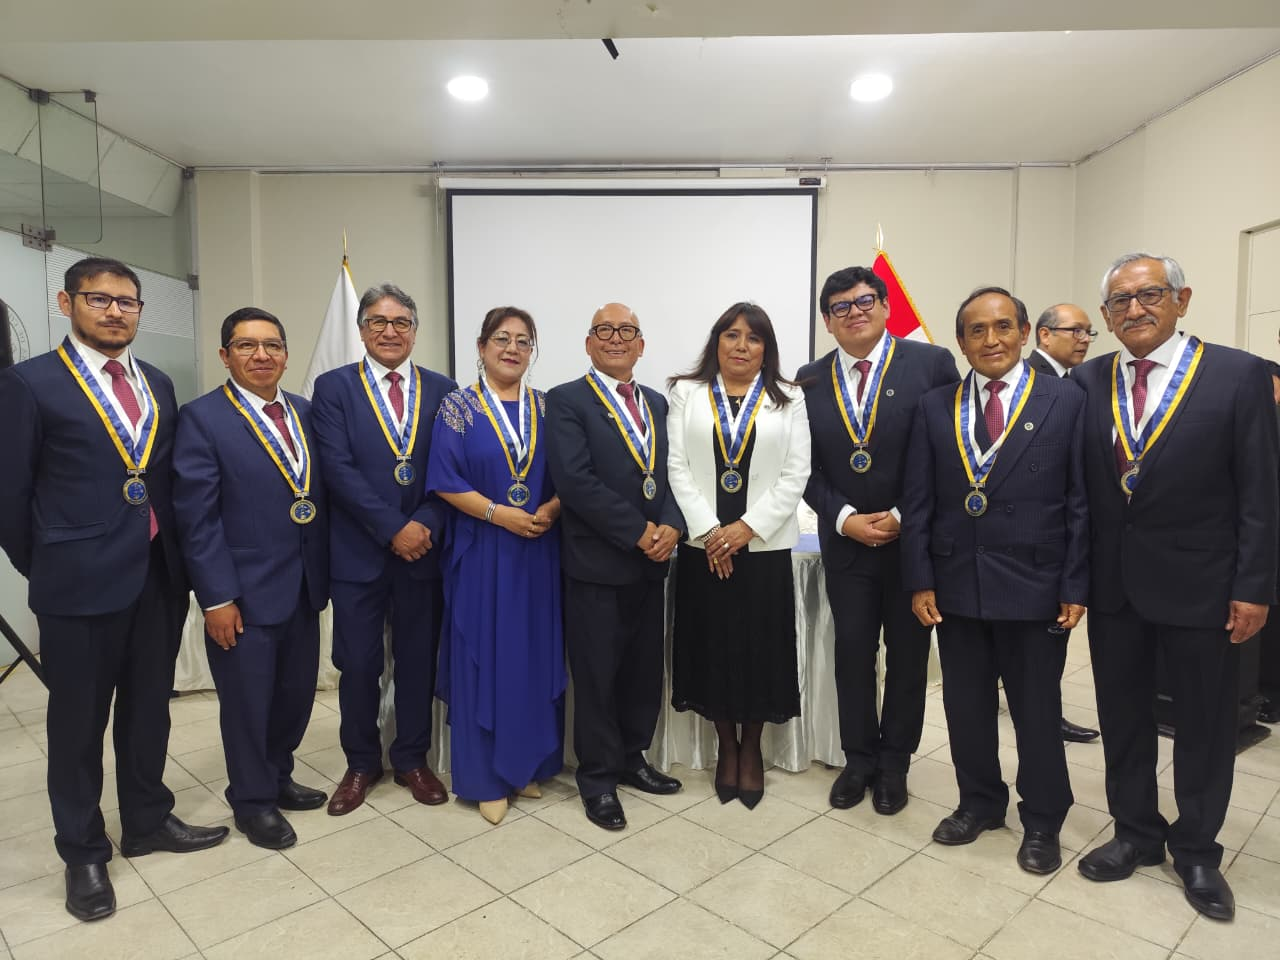
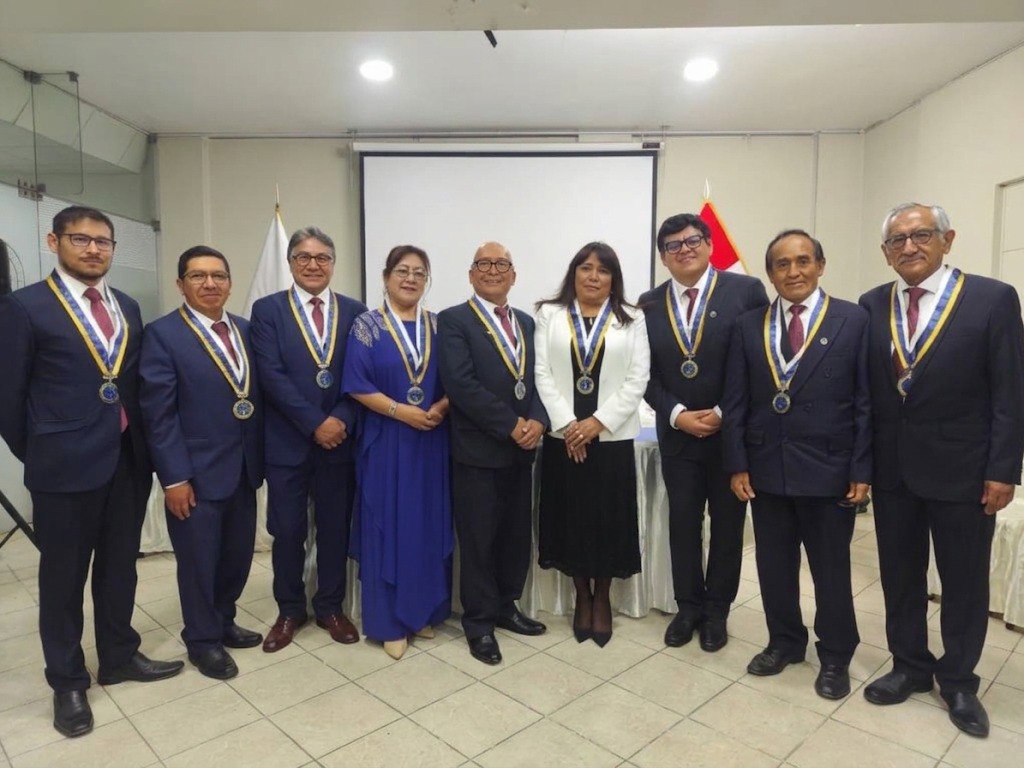
se mejora el formato de texto de las secciones principales y cambio de imagen de directivos

diff --git a/src/components/layout/Header.tsx b/src/components/layout/Header.tsx
@@ -21,6 +21,7 @@ import PhoneIphoneOutlinedIcon from "@mui/icons-material/PhoneIphoneOutlined";
 import PhoneOutlinedIcon from "@mui/icons-material/PhoneOutlined";
 import MailOutlinedIcon from "@mui/icons-material/MailOutlined";
 import PlaceOutlinedIcon from "@mui/icons-material/PlaceOutlined";
+import MenuBookOutlinedIcon from "@mui/icons-material/MenuBookOutlined";
 import { brand, fonts } from "../../theme/brand";
 import { SITE } from "../../data/site";
 import {
@@ -39,7 +40,9 @@ type ContactItem = {
   icon: ReactNode;
   label: string;
   href?: string;
+  to?: string;
   hideOnMobile?: boolean;
+  onlyWide?: boolean;
 };
 
 const CONTACT_ITEMS: ContactItem[] = [
@@ -66,6 +69,13 @@ const CONTACT_ITEMS: ContactItem[] = [
     icon: <PlaceOutlinedIcon />,
     label: SITE.contact.address,
     hideOnMobile: true,
+  },
+  {
+    icon: <MenuBookOutlinedIcon />,
+    label: "Libro de reclamaciones",
+    to: "/libro-de-reclamaciones",
+    hideOnMobile: true,
+    onlyWide: true,
   },
 ];
 
@@ -252,12 +262,22 @@ export default function Header() {
                 ...contactItemSx,
                 fontSize: { xs: "0.72rem", sm: "0.78rem", md: "0.84rem" },
                 display: {
-                  xs: item.hideOnMobile ? "none" : "inline-flex",
-                  sm: "inline-flex",
+                  xs: item.hideOnMobile || item.onlyWide ? "none" : "inline-flex",
+                  sm: item.onlyWide ? "none" : "inline-flex",
+                  lg: "inline-flex",
                 },
               } as const;
 
-              return item.href ? (
+              return item.to ? (
+                <Box
+                  key={item.label}
+                  component={RouterLink}
+                  to={item.to}
+                  sx={itemSx}
+                >
+                  {content}
+                </Box>
+              ) : item.href ? (
                 <Box
                   key={item.label}
                   component="a"

diff --git a/src/features/arbitraje/CostosPage.tsx b/src/features/arbitraje/CostosPage.tsx
@@ -107,7 +107,7 @@ export default function CostosPage() {
 
       <SectionSubnav items={ARBITRAJE_SUBNAV} ariaLabel="Secciones de arbitraje" />
 
-      <Box component="section" sx={{ py: { xs: 7, md: 9 }, backgroundColor: brand.whiteSoft }}>
+      <Box component="section" sx={{ py: { xs: 5, md: 7 }, backgroundColor: brand.whiteSoft }}>
         <Container>
           <SectionHeading
             kicker="Qué incluye"
@@ -132,7 +132,7 @@ export default function CostosPage() {
         </Container>
       </Box>
 
-      <Box component="section" sx={{ py: { xs: 7, md: 9 }, backgroundColor: brand.paper }}>
+      <Box component="section" sx={{ py: { xs: 5, md: 7 }, backgroundColor: brand.paper }}>
         <Container>
           <SectionHeading
             kicker="Anexo 1"
@@ -195,7 +195,7 @@ export default function CostosPage() {
         </Container>
       </Box>
 
-      <Box component="section" sx={{ py: { xs: 7, md: 9 }, backgroundColor: brand.whiteSoft }}>
+      <Box component="section" sx={{ py: { xs: 5, md: 7 }, backgroundColor: brand.whiteSoft }}>
         <Container>
           <SectionHeading kicker="Cómo se calcula" title="Tres datos para estimar tu costo" />
 
@@ -276,7 +276,7 @@ export default function CostosPage() {
         </Container>
       </Box>
 
-      <Box component="section" sx={{ py: { xs: 7, md: 9 }, backgroundColor: brand.paper }}>
+      <Box component="section" sx={{ py: { xs: 5, md: 7 }, backgroundColor: brand.paper }}>
         <Container>
           <SectionHeading
             kicker="Tasas y trámites"
@@ -347,7 +347,7 @@ export default function CostosPage() {
         </Container>
       </Box>
 
-      <Box component="section" sx={{ py: { xs: 7, md: 9 }, backgroundColor: brand.whiteSoft }}>
+      <Box component="section" sx={{ py: { xs: 5, md: 7 }, backgroundColor: brand.whiteSoft }}>
         <Container>
           <SectionHeading
             kicker="Ejemplos"

diff --git a/src/features/arbitraje/InicioArbitrajePage.tsx b/src/features/arbitraje/InicioArbitrajePage.tsx
@@ -143,7 +143,7 @@ export default function InicioArbitrajePage() {
 
       <SectionSubnav items={ARBITRAJE_SUBNAV} ariaLabel="Secciones de arbitraje" />
 
-      <Box component="section" sx={{ py: { xs: 7, md: 10 }, backgroundColor: brand.whiteSoft }}>
+      <Box component="section" sx={{ py: { xs: 5, md: 7 }, backgroundColor: brand.whiteSoft }}>
         <Container>
           <Grid container spacing={{ xs: 4, md: 7 }}>
             <Grid size={{ xs: 12, md: 7 }}>
@@ -260,7 +260,7 @@ export default function InicioArbitrajePage() {
         </Container>
       </Box>
 
-      <Box component="section" sx={{ py: { xs: 7, md: 9 }, backgroundColor: brand.paper }}>
+      <Box component="section" sx={{ py: { xs: 5, md: 7 }, backgroundColor: brand.paper }}>
         <Container>
           <SectionHeading
             kicker="El recorrido"
@@ -308,7 +308,7 @@ export default function InicioArbitrajePage() {
       <Box
         component="section"
         sx={{
-          py: { xs: 7, md: 9 },
+          py: { xs: 5, md: 7 },
           backgroundColor: brand.whiteSoft,
           borderTop: `1px solid ${brand.line}`,
         }}
@@ -388,7 +388,7 @@ export default function InicioArbitrajePage() {
         id="guia-requisitos"
         sx={{
           scrollMarginTop: "calc(var(--header-h) + var(--subnav-h))",
-          py: { xs: 7, md: 10 },
+          py: { xs: 5, md: 7 },
           backgroundColor: brand.whiteSoft,
           borderTop: `1px solid ${brand.line}`,
         }}
@@ -522,7 +522,7 @@ export default function InicioArbitrajePage() {
         </Container>
       </Box>
 
-      <Box component="section" sx={{ py: { xs: 7, md: 9 }, backgroundColor: brand.paper }}>
+      <Box component="section" sx={{ py: { xs: 5, md: 7 }, backgroundColor: brand.paper }}>
         <Container>
           <SectionHeading
             kicker="Canales de atención"

diff --git a/src/features/arbitraje/ClausulaPage.tsx b/src/features/arbitraje/ClausulaPage.tsx
@@ -107,7 +107,7 @@ export default function ClausulaPage() {
 
       <SectionSubnav items={ARBITRAJE_SUBNAV} ariaLabel="Secciones de arbitraje" />
 
-      <Box component="section" sx={{ py: { xs: 7, md: 10 }, backgroundColor: brand.whiteSoft }}>
+      <Box component="section" sx={{ py: { xs: 5, md: 7 }, backgroundColor: brand.whiteSoft }}>
         <Container>
           <Grid container spacing={{ xs: 4, md: 7 }}>
             <Grid size={{ xs: 12, md: 7 }}>
@@ -165,7 +165,7 @@ export default function ClausulaPage() {
         </Container>
       </Box>
 
-      <Box component="section" sx={{ py: { xs: 7, md: 10 }, backgroundColor: brand.paper }}>
+      <Box component="section" sx={{ py: { xs: 5, md: 7 }, backgroundColor: brand.paper }}>
         <Container>
           <SectionHeading
             kicker="Cómo adaptarla"
@@ -254,7 +254,7 @@ export default function ClausulaPage() {
         </Container>
       </Box>
 
-      <Box component="section" sx={{ py: { xs: 7, md: 10 }, backgroundColor: brand.whiteSoft }}>
+      <Box component="section" sx={{ py: { xs: 5, md: 7 }, backgroundColor: brand.whiteSoft }}>
         <Container>
           <SectionHeading
             kicker="Errores frecuentes"
@@ -331,7 +331,7 @@ export default function ClausulaPage() {
         </Container>
       </Box>
 
-      <Box component="section" sx={{ py: { xs: 7, md: 9 }, backgroundColor: brand.paper }}>
+      <Box component="section" sx={{ py: { xs: 5, md: 7 }, backgroundColor: brand.paper }}>
         <Container>
           <Grid container spacing={{ xs: 4, md: 6 }}>
             <Grid size={{ xs: 12, md: 5 }}>

diff --git a/src/features/arbitraje/ArbitrajePage.tsx b/src/features/arbitraje/ArbitrajePage.tsx
@@ -77,7 +77,7 @@ export default function ArbitrajePage() {
 
       <SectionSubnav items={ARBITRAJE_SUBNAV} ariaLabel="Secciones de arbitraje" />
 
-      <Box component="section" sx={{ py: { xs: 7, md: 10 }, backgroundColor: brand.whiteSoft }}>
+      <Box component="section" sx={{ py: { xs: 5, md: 7 }, backgroundColor: brand.whiteSoft }}>
         <Container>
           <Grid container spacing={{ xs: 4, md: 7 }} sx={{ alignItems: "center" }}>
             <Grid size={{ xs: 12, md: 5 }}>
@@ -192,7 +192,7 @@ export default function ArbitrajePage() {
         </Container>
       </Box>
 
-      <Box component="section" sx={{ py: { xs: 7, md: 10 }, backgroundColor: brand.paper }}>
+      <Box component="section" sx={{ py: { xs: 5, md: 7 }, backgroundColor: brand.paper }}>
         <Container>
           <Box
             sx={{
@@ -453,7 +453,7 @@ export default function ArbitrajePage() {
       <Box
         component="section"
         sx={{
-          py: { xs: 7, md: 10 },
+          py: { xs: 5, md: 7 },
           backgroundColor: brand.whiteSoft,
           borderTop: `1px solid ${brand.line}`,
         }}
@@ -592,7 +592,7 @@ export default function ArbitrajePage() {
         </Container>
       </Box>
 
-      <Box component="section" sx={{ py: { xs: 5, md: 6 }, backgroundColor: brand.paper }}>
+      <Box component="section" sx={{ py: { xs: 4, md: 5 }, backgroundColor: brand.paper }}>
         <Container>
           <Stack
             direction={{ xs: "column", md: "row" }}

diff --git a/src/features/arbitraje/LaudosPage.tsx b/src/features/arbitraje/LaudosPage.tsx
@@ -75,7 +75,7 @@ export default function LaudosPage() {
 
       <SectionSubnav items={ARBITRAJE_SUBNAV} ariaLabel="Secciones de arbitraje" />
 
-      <Box component="section" sx={{ py: { xs: 7, md: 10 }, backgroundColor: brand.whiteSoft }}>
+      <Box component="section" sx={{ py: { xs: 5, md: 7 }, backgroundColor: brand.whiteSoft }}>
         <Container>
           <SectionHeading
             kicker="Cómo se emite"
@@ -139,7 +139,7 @@ export default function LaudosPage() {
         </Container>
       </Box>
 
-      <Box component="section" sx={{ py: { xs: 7, md: 9 }, backgroundColor: brand.paper }}>
+      <Box component="section" sx={{ py: { xs: 5, md: 7 }, backgroundColor: brand.paper }}>
         <Container>
           <SectionHeading
             kicker="Después del laudo"
@@ -181,7 +181,7 @@ export default function LaudosPage() {
         </Container>
       </Box>
 
-      <Box component="section" sx={{ py: { xs: 7, md: 9 }, backgroundColor: brand.whiteSoft }}>
+      <Box component="section" sx={{ py: { xs: 5, md: 7 }, backgroundColor: brand.whiteSoft }}>
         <Container>
           <Grid container spacing={{ xs: 4, md: 6 }}>
             <Grid size={{ xs: 12, md: 6 }}>
@@ -223,7 +223,7 @@ export default function LaudosPage() {
       <Box
         component="section"
         sx={{
-          py: { xs: 7, md: 9 },
+          py: { xs: 5, md: 7 },
           backgroundColor: brand.paper,
           borderTop: `1px solid ${brand.line}`,
         }}

diff --git a/src/features/jprd/JprdPage.tsx b/src/features/jprd/JprdPage.tsx
@@ -32,7 +32,7 @@ export default function JprdPage() {
 
       <SectionSubnav items={JPRD_SUBNAV} ariaLabel="Secciones de la JPRD" />
 
-      <Box component="section" sx={{ py: { xs: 7, md: 10 }, backgroundColor: brand.whiteSoft }}>
+      <Box component="section" sx={{ py: { xs: 5, md: 7 }, backgroundColor: brand.whiteSoft }}>
         <Container>
           <Grid container spacing={{ xs: 4, md: 7 }} sx={{ alignItems: "center" }}>
             <Grid size={{ xs: 12, md: 7 }}>
@@ -133,7 +133,7 @@ export default function JprdPage() {
         </Container>
       </Box>
 
-      <Box component="section" sx={{ py: { xs: 7, md: 9 }, backgroundColor: brand.paper }}>
+      <Box component="section" sx={{ py: { xs: 5, md: 7 }, backgroundColor: brand.paper }}>
         <Container>
           <Grid container spacing={{ xs: 3, md: 5 }} sx={{ alignItems: "flex-end", mb: 4 }}>
             <Grid size={{ xs: 12, md: 8 }}>

diff --git a/src/components/layout/Layout.tsx b/src/components/layout/Layout.tsx
@@ -1,5 +1,5 @@
 import { Suspense } from "react";
-import { Outlet } from "react-router-dom";
+import { Outlet, useLocation } from "react-router-dom";
 import { Box, Link } from "@mui/material";
 import Header from "./Header";
 import BreadcrumbBar from "./BreadcrumbBar";
@@ -10,6 +10,12 @@ import PortraitFilterDefs from "../common/PortraitFilterDefs";
 import { brand } from "../../theme/brand";
 
 export default function Layout() {
+  const { pathname } = useLocation();
+  const editorialFlow =
+    pathname === "/documentos" ||
+    pathname.startsWith("/arbitraje") ||
+    pathname.startsWith("/jprd");
+
   return (
     <Box
       sx={{
@@ -47,6 +53,7 @@ export default function Layout() {
         component="main"
         id="contenido"
         tabIndex={-1}
+        className={editorialFlow ? "editorial-flow" : undefined}
         sx={{
           flex: 1,
           display: "flex",

diff --git a/src/features/arbitraje/ReglamentosPage.tsx b/src/features/arbitraje/ReglamentosPage.tsx
@@ -75,7 +75,7 @@ export default function ReglamentosPage() {
 
       <SectionSubnav items={ARBITRAJE_SUBNAV} ariaLabel="Secciones de arbitraje" />
 
-      <Box component="section" sx={{ py: { xs: 7, md: 10 }, backgroundColor: brand.whiteSoft }}>
+      <Box component="section" sx={{ py: { xs: 5, md: 7 }, backgroundColor: brand.whiteSoft }}>
         <Container>
           <Grid container spacing={{ xs: 4, md: 7 }}>
             <Grid size={{ xs: 12, md: 8 }}>
@@ -125,7 +125,7 @@ export default function ReglamentosPage() {
         </Container>
       </Box>
 
-      <Box component="section" sx={{ py: { xs: 7, md: 9 }, backgroundColor: brand.paper }}>
+      <Box component="section" sx={{ py: { xs: 5, md: 7 }, backgroundColor: brand.paper }}>
         <Container>
           <Grid container spacing={{ xs: 5, md: 7 }}>
             <Grid size={{ xs: 12, md: 5 }}>

diff --git a/src/features/jprd/JprdReglamentoPage.tsx b/src/features/jprd/JprdReglamentoPage.tsx
@@ -64,7 +64,7 @@ export default function JprdReglamentoPage() {
 
       <SectionSubnav items={JPRD_SUBNAV} ariaLabel="Secciones de la JPRD" />
 
-      <Box component="section" sx={{ py: { xs: 7, md: 9 }, backgroundColor: brand.whiteSoft }}>
+      <Box component="section" sx={{ py: { xs: 5, md: 7 }, backgroundColor: brand.whiteSoft }}>
         <Container>
           <SectionHeading
             kicker="Documentos en borrador"
@@ -83,7 +83,7 @@ export default function JprdReglamentoPage() {
         </Container>
       </Box>
 
-      <Box component="section" sx={{ py: { xs: 7, md: 9 }, backgroundColor: brand.whiteSoft }}>
+      <Box component="section" sx={{ py: { xs: 5, md: 7 }, backgroundColor: brand.whiteSoft }}>
         <Container>
           <Grid container spacing={{ xs: 4, md: 6 }}>
             <Grid size={{ xs: 12, md: 5 }}>

diff --git a/src/features/jprd/JprdArancelesPage.tsx b/src/features/jprd/JprdArancelesPage.tsx
@@ -109,7 +109,7 @@ export default function JprdArancelesPage() {
 
       <SectionSubnav items={JPRD_SUBNAV} ariaLabel="Secciones de la JPRD" />
 
-      <Box component="section" sx={{ py: { xs: 7, md: 10 }, backgroundColor: brand.paper }}>
+      <Box component="section" sx={{ py: { xs: 5, md: 7 }, backgroundColor: brand.paper }}>
         <Container>
           <SectionHeading
             kicker="Honorarios propuestos"
@@ -160,7 +160,7 @@ export default function JprdArancelesPage() {
         </Container>
       </Box>
 
-      <Box component="section" sx={{ py: { xs: 7, md: 9 }, backgroundColor: brand.whiteSoft }}>
+      <Box component="section" sx={{ py: { xs: 5, md: 7 }, backgroundColor: brand.whiteSoft }}>
         <Container>
           <SectionHeading kicker="Condiciones" title="Antes de usar estas cifras" />
 

diff --git a/src/index.css b/src/index.css
@@ -76,6 +76,26 @@ img {
   max-width: 100%;
 }
 
+/*
+ * Los flujos de Documentos, Arbitraje y JPRD usan texto corrido. Se justifica
+ * el cuerpo sin afectar encabezados, botones ni celdas de tablas.
+ */
+.editorial-flow p,
+.editorial-flow li,
+.editorial-flow .MuiTypography-body1,
+.editorial-flow .MuiTypography-body2 {
+  text-align: justify;
+  text-justify: inter-word;
+}
+
+.editorial-flow .MuiTableContainer p,
+.editorial-flow .MuiTableContainer li,
+.editorial-flow .MuiTableCell-root p,
+.editorial-flow .MuiTableCell-root li,
+.editorial-flow .MuiTableCell-root {
+  text-align: left;
+}
+
 ::selection {
   background-color: #e7d8ae;
   color: #0a1b2b;
